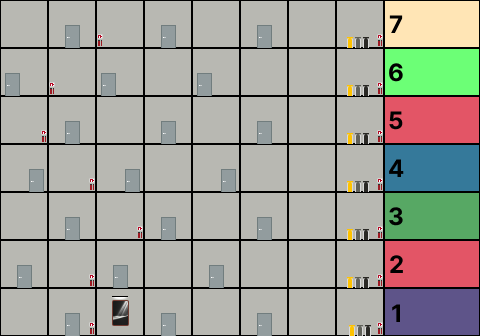
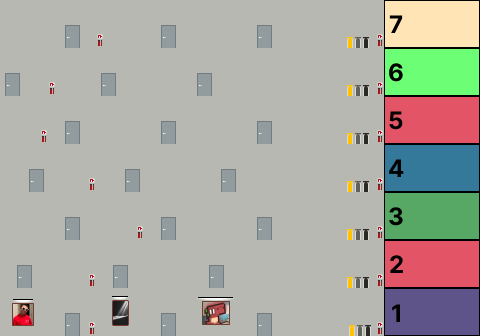
Status de connexion, Addresse serveur, Docker
- Affichage du status de connexion:
    En ligne (en vert)
    Hors ligne (en rouge)

- Choix de l'adresse du serveur via les variables d'environnements.
    TARGET_URL pour définir l'url
    ou "https://[::1]:25565" par défaut.

- Log de la disponibilité de l'api "WebTransport" sur le navigateur.

- Docker non-fonctionnel

diff --git a/web/index.html b/web/index.html
@@ -22,6 +22,8 @@
     </canvas>
     <script type="module">
         import init from './js/client.js';
+
+        console.warn("WebTransport available: ", 'WebTransport' in window)
         init();
     </script>
 </body>

diff --git a/src/debug/information.rs b/src/debug/information.rs
@@ -1,8 +1,12 @@
 use super::FrameTimeDiagnosticsPlugin;
+use aeronet::io::Session;
 use bevy::{diagnostic::DiagnosticsStore, prelude::*};
 
 #[derive(Component)]
 pub struct DebugFrame;
+
+#[derive(Component)]
+pub struct ConnectionStateFrame;
 
 pub fn update(mut text: Query<&mut Text, With<DebugFrame>>, diagnostics: Res<DiagnosticsStore>) {
     let fps = match diagnostics.get(&FrameTimeDiagnosticsPlugin::FPS) {
@@ -34,6 +38,16 @@ pub fn setup(mut commands: Commands, asset_server: Res<AssetServer>) {
             ..default()
         })
         .with_children(|parent| {
+            parent.spawn((
+                Text("Hors ligne".to_string()),
+                TextColor(Color::linear_rgb(0.2, 0.1, 0.1)),
+                TextFont {
+                    font: font.clone(),
+                    font_size: 12.0,
+                    ..default()
+                },
+                ConnectionStateFrame
+            ));
             let text = format!("Isen't It - {}", VERSION);
             parent.spawn((
                 Text(text),
@@ -55,4 +69,24 @@ pub fn setup(mut commands: Commands, asset_server: Res<AssetServer>) {
                 DebugFrame,
             ));
         });
+}
+
+pub fn connected(
+    _: Trigger<OnAdd, Session>,
+    mut texts: Query<(&mut Text, &mut TextColor), With<ConnectionStateFrame>>
+) {
+    for (mut text, mut color) in texts.iter_mut() {
+        text.0 = "En ligne".to_string();
+        color.0 = Color::linear_rgb(0.1, 0.2, 0.1);
+    }
+}
+
+pub fn disconnected(
+    _: Trigger<OnRemove, Session>,
+    mut texts: Query<(&mut Text, &mut TextColor), With<ConnectionStateFrame>>
+) {
+    for (mut text, mut color) in texts.iter_mut() {
+        text.0 = "Hors ligne".to_string();
+        color.0 = Color::linear_rgb(0.2, 0.1, 0.1);
+    }
 }

diff --git a/src/bin/client/network/mod.rs b/src/bin/client/network/mod.rs
@@ -3,6 +3,7 @@ use aeronet_webtransport::client::{WebTransportClient, WebTransportClientPlugin}
 use bevy::prelude::*;
 use rand::random;
 use update::ClientNetworkSet;
+use std::env::var;
 
 mod config;
 mod observers;
@@ -49,10 +50,14 @@ impl Plugin for Client {
     }
 }
 
-const TARGET: &str = "https://[::1]:25565";
+const DEFAULT_TARGET: &str = "https://[::1]:25565";
 const CERT_HASH: &str = include_str!("../../../../.keys/hash");
 
 fn connect(mut commands: Commands) {
+    let target = match var("TARGET_URL") {
+        Ok(t) => t,
+        _ => DEFAULT_TARGET.to_string()
+    };
     let config = match config::client_config(CERT_HASH.to_string()) {
         Ok(config) => config,
         Err(err) => {
@@ -61,8 +66,8 @@ fn connect(mut commands: Commands) {
         }
     };
 
-    let name = format!("{}. {TARGET}", random::<u8>());
+    let name = format!("{}. {target}", random::<u8>());
     commands
         .spawn(Name::new(name))
-        .queue(WebTransportClient::connect(config, TARGET));
+        .queue(WebTransportClient::connect(config, target));
 }

diff --git a/src/joueur/mod.rs b/src/joueur/mod.rs
@@ -1,6 +1,5 @@
 use bevy::prelude::*;
-use composants::{Joueur, JoueurPrincipal, Velocity};
-use rand::random;
+use composants::Joueur;
 
 pub mod animation;
 mod mouvements;
@@ -75,29 +74,4 @@ pub fn spawn_player(
         },
         Joueur,
     )).id()
-}
-
-/* Systèmes */
-
-fn setup(
-    mut commands: Commands,
-    asset_server: Res<AssetServer>,
-    mut texture_atlas_layouts: ResMut<Assets<TextureAtlasLayout>>,
-) {
-
-    let joueur_principal = spawn_player(
-        &mut commands, 
-        &asset_server, 
-        &mut texture_atlas_layouts, 
-        random::<u8>(), 
-        Vec3::new(24., 24., 2.)
-    );
-
-    commands.entity(joueur_principal).insert((
-        JoueurPrincipal,
-        Velocity::default(),
-        animation::AnimationTimer(
-            Timer::from_seconds(0.1, TimerMode::Repeating)
-        )
-    ));
 }

diff --git a/src/debug/mod.rs b/src/debug/mod.rs
@@ -25,6 +25,10 @@ impl Plugin for PluginPerf {
         // si l'utilisateur est en mode debug.
         app.add_systems(Startup, information::setup);
         app.add_systems(Update, information::update);
+
+        app
+            .add_observer(information::connected)
+            .add_observer(information::disconnected);
         if debug == "true" {
             app.add_plugins(FrameTimeDiagnosticsPlugin);
             // Le plugin bevy_pls_editor n'est pas compatible avec la 0.15 de bevy

diff --git a/docs/installation.md b/docs/installation.md
@@ -49,8 +49,6 @@ et `wasm-bindgen --out-dir ./web/js --target web ./target/wasm32-unknown-unknown
 *Suppresion des binaires (les fichiers qui peuvent prendre beaucoup de stockage)*
 `cargo clean` *(cela supprime le dossier target du projet)*
 
-
-
 ## Proposition de modifications
 
 Désormais, vous pouvez modifier le code à votre guise locallement.
